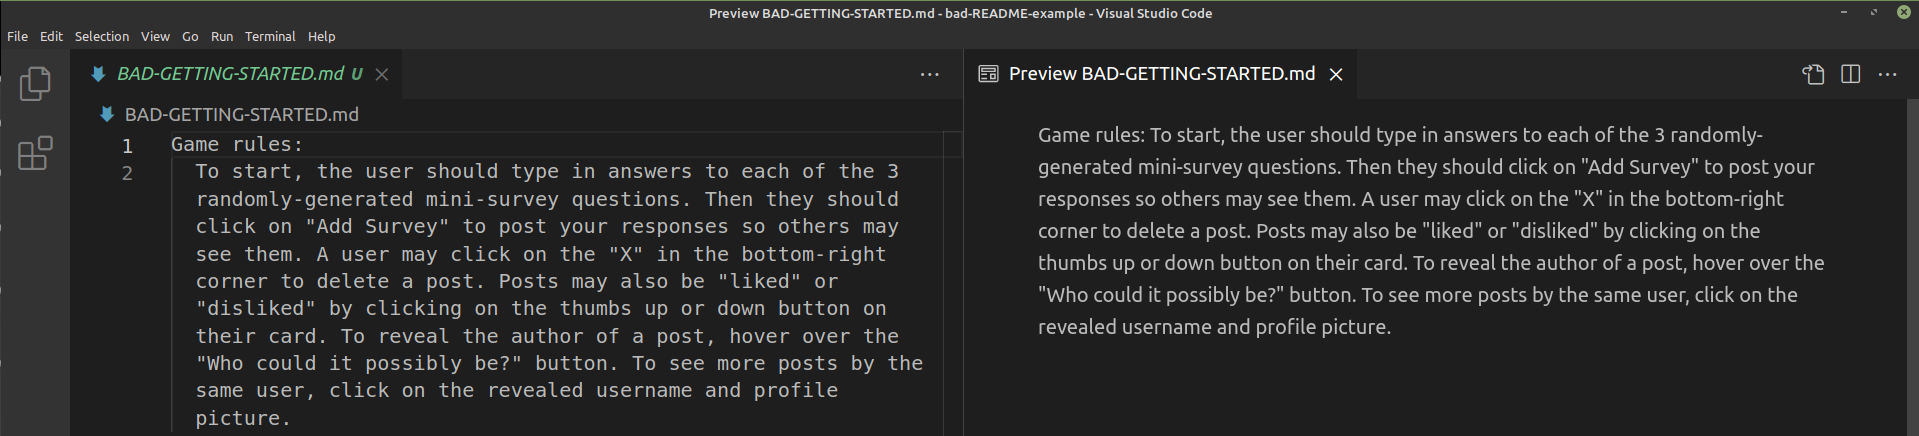
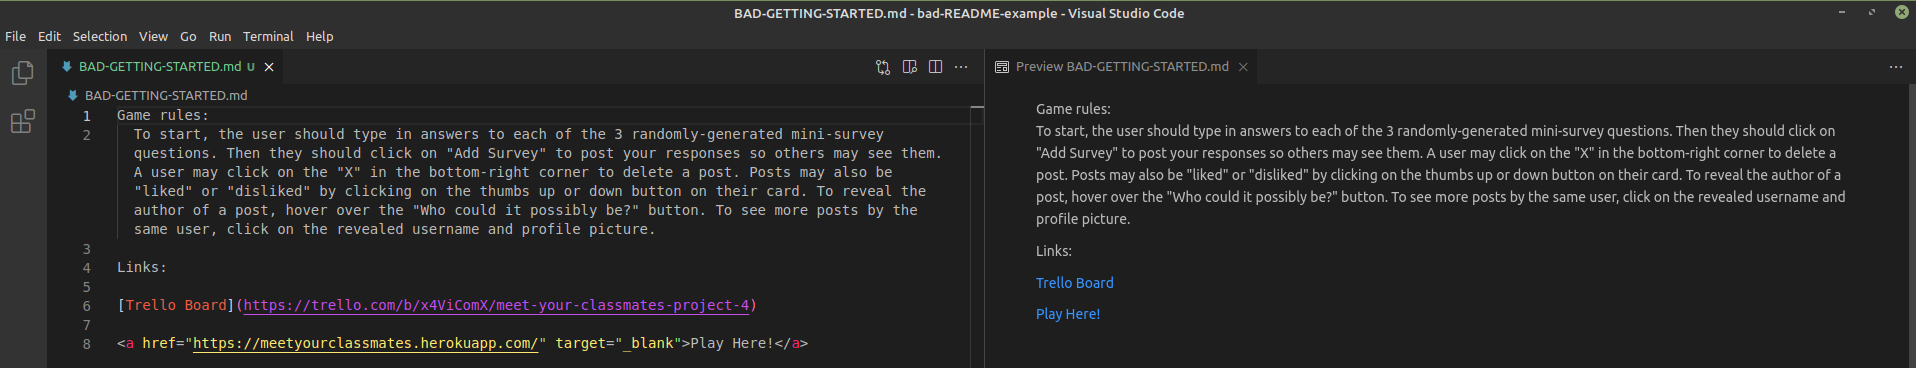
merged resoures and links into getting started

diff --git a/README.md b/README.md
@@ -1,11 +1,13 @@
-# <h1 align="center"><img src="./images/GAfavicon.ico">  How to Fix a GA Bootcamp Project README <img src="./images/GAfavicon.ico"></h1>
+# <h1 align="center"><img src="./images/GAfavicon.ico">  How to Fix a GA SEI Bootcamp Project README <img src="./images/GAfavicon.ico"></h1>
 <!-- ###### <h6 align="center">by</h6> -->
 ###### <h6 align="center"> [Amar Pan - GA SEI '21](https://www.linkedin.com/in/amarpan/)</h6>
 The README is often the most overlooked and underestimated aspect of a web dev project, frequently left until the very last minute. And yet, it is what employers directly look at when assessing one's technical competency as a software engineer.
 
 Thus, today we'll take a look at how to clean-up an existing README so that it becomes eye-candy rather than an eye-sore.   
 
-***This tutorial assumes you already have some semblance of a README. If you're starting from scratch, however, download my blank skeleton template [here](https://github.com/amarpan/blank-README-template). 
+***This tutorial assumes you already have some semblance of a README. If you're starting from scratch, however, download my blank skeleton template [here](https://github.com/amarpan/blank-README-template).    
+
+***For a quick review of how to use Markdown, go [here](https://www.markdowntutorial.com/).
 
 
 
@@ -13,10 +15,10 @@ Thus, today we'll take a look at how to clean-up an existing README so that it b
 |---------------|--------------|
 | <img src="./images/FullBadREADME.png"> | <img src="./images/FullGoodREADME.png"> | -->
 
-## <h2  align="center">Header
- <img src="./images/BAD-HEADER.png">    
+## <h2  align="center">Description</h2>
+ <img src="./images/BAD-DESCRIPTION.png">    
  
- <img src="./images/GOOD-HEADER.png">
+ <img src="./images/GOOD-DESCRIPTION.png">
  
 |            | Instructions |
 |------------|--------------|
@@ -38,18 +40,11 @@ Thus, today we'll take a look at how to clean-up an existing README so that it b
 |            | `\| Description \| Screenshot\|` |
 |            |`\|-------------\|-----------\|`|
 |            |`\|   caption   \|   image   \|`|
-| Note:      | Whatever is placed in between `<details></details> ` will be put into a closed drop-down menu. The title for this should be placed in between `<summary></summary>`. 
+| Note:      | Whatever is placed in between `<details></details> ` will be hidden beneath a closed drop-down menu, until its arrow is clicked on. The title for this should be placed in between `<summary></summary>`. 
 | Note:      | To have a drop-down menu display by default without the user having to click it, add the word 'open' to the details tag.
 |            |Ex. `<details>`  -->  `<details open>` 
-| Note:      |Images can also be resized with `<img src="" width="300" height="400">`
-
-## <h2  align="center">Getting Started</h2>
- <img src="./images/BAD-GETTING-STARTED.png">    
- <img src="./images/GOOD-GETTING-STARTED.png">    
-
-|            | Instructions |
-|------------|--------------|
-| Note:      | Use number lists as opposed to lengthy paragraphs to make sure this section is easily readable.
+| Note:      |Image dimensions can also be resized by specifying width and height.| 
+|            |Ex. `<img src="" width="300" height="400">`| 
 
 ## <h2  align="center">Technologies Used</h2>
  <img src="./images/BAD-TECHNOLOGIES-USED.png">    
@@ -59,14 +54,15 @@ Thus, today we'll take a look at how to clean-up an existing README so that it b
 |------------|--------------|
 | Note:      | Separate each technology used with a `\|`(vertical bar) to avoid making your README unnecessarily lengthy.
 
-## <h2  align="center">Resources</h2>
- <img src="./images/BAD-RESOURCES.png">    
- <img src="./images/GOOD-RESOURCES.png">    
+## <h2  align="center">Getting Started</h2>
+ <img src="./images/BAD-GETTING-STARTED.png">    
+ <img src="./images/GOOD-GETTING-STARTED.png">    
 
 |            | Instructions |
 |------------|--------------|
+| Note:      | Use number lists as opposed to lengthy paragraphs to make sure this section is easily readable.
 | Note:      | Put your links in more drop-down menus using `<details open>` and `<summary>`
-| Note:      | Try to choose something simple and memorable when choosing your URL / link name..
+| Note:      | Try to choose something simple and memorable when choosing your Heroku URL / link name.
 
 ## <h2  align="center">Next Steps</h2>
  <img src="./images/BAD-NEXT-STEPS.png">    
@@ -74,8 +70,8 @@ Thus, today we'll take a look at how to clean-up an existing README so that it b
 
 |            | Instructions |
 |------------|--------------|
-| Note:      | Try to avoid using the word "icebox", as most non-technical users won't know what this means.
-| Note:      | Avoid paragraphs and instead use bullet points to make it immediately clear what each new feature would be.
+| Note:      | Try to avoid using the word "icebox", as most non-technical users probably won't know what this means.
+| Note:      | Use bullet points rather than paragraphs to make it immediately clear what each new feature would be.
 
 ## <h2  align="center">The Final Product</h2>
  <img src="./images/GOOD-FULL-README.png">    

diff --git a/markdowns/FULL-GOOD-README.md b/markdowns/FULL-GOOD-README.md
@@ -37,6 +37,9 @@ Meet Your Classmates is an Instagram-clone and hub where students can get to kno
  
 </details>
 
+## Technologies Used
+MongoDB Atlas | Express | React | Node.js | Semantic UI | JSX | Mongoose ODM | JWT Auth | AWS S3 | Heroku | draw.io | Lucidchart | Javascript | HTML | CSS | ~~Lots of Advil~~
+
 
 ## Getting Started
 
@@ -62,13 +65,6 @@ Meet Your Classmates is an Instagram-clone and hub where students can get to kno
  
 </details>
  
-## Technologies Used
-React | Semantic UI | JSX | Express | MongoDB | Mongoose | Node.js | JWT Auth | AWS | Heroku | draw.io | Lucidchart | Javascript | HTML | CSS | ~~Punching Bag~~
-
-
-
-
-## Resources
 <details>
 <summary>Trello Board</summary>
 <a href="https://trello.com/b/x4ViComX/meet-your-classmates-project-4">https://trello.com/b/x4ViComX/meet-your-classmates-project-4</a>

diff --git a/markdowns/getting-started/BAD-GETTING-STARTED.md b/markdowns/getting-started/BAD-GETTING-STARTED.md
@@ -1,2 +1,8 @@
 Game rules:
   To start, the user should type in answers to each of the 3 randomly-generated mini-survey questions. Then they should click on "Add Survey" to post your responses so others may see them. A user may click on the "X" in the bottom-right corner to delete a post. Posts may also be "liked" or "disliked" by clicking on the thumbs up or down button on their card. To reveal the author of a post, hover over the "Who could it possibly be?" button. To see more posts by the same user, click on the revealed username and profile picture.
+
+Links:
+
+[Trello Board](https://trello.com/b/x4ViComX/meet-your-classmates-project-4)
+
+<a href="https://meetyourclassmates.herokuapp.com/" target="_blank">Play Here!</a>

diff --git a/markdowns/description/GOOD-DESCRIPTION.md b/markdowns/description/GOOD-DESCRIPTION.md
@@ -1,0 +1,6 @@
+# <h1 align="center">:school_satchel: :school: MEET YOUR CLASSMATES :school: :school_satchel: </h1>
+### <h3 align="center">https://meetyourclassmates.herokuapp.com/</h3>
+##### <h5 align="center">Amar 'Pan' Panjwani</h5>
+
+## Description
+Meet Your Classmates is an Instagram-clone and hub where students can get to know and relate to their peers via completion of short 3-question mini-surveys. By learning about others' backgrounds, previous experiences, and interests, an atmosphere of community is created that is conducive to higher levels of learning and success.

diff --git a/markdowns/getting-started/GOOD-GETTING-STARTED.md b/markdowns/getting-started/GOOD-GETTING-STARTED.md
@@ -20,3 +20,14 @@
 3. To see more posts by the same user, click on the revealed username and profile picture.
 
 </details>
+
+<details>
+<summary>Trello Board</summary>
+<a href="https://trello.com/b/x4ViComX/meet-your-classmates-project-4">https://trello.com/b/x4ViComX/meet-your-classmates-project-4</a>
+</details>
+
+
+<details open>
+<summary>Deployed Link (Heroku)</summary>
+<a href="https://meetyourclassmates.herokuapp.com/">https://meetyourclassmates.herokuapp.com/</a>
+</details>

diff --git a/markdowns/description/BAD-DESCRIPTION.md b/markdowns/description/BAD-DESCRIPTION.md
@@ -1,0 +1,4 @@
+# project-4 - meet your classmates
+by Student McGee   
+
+App Title: Meet Your Classmates P4 
